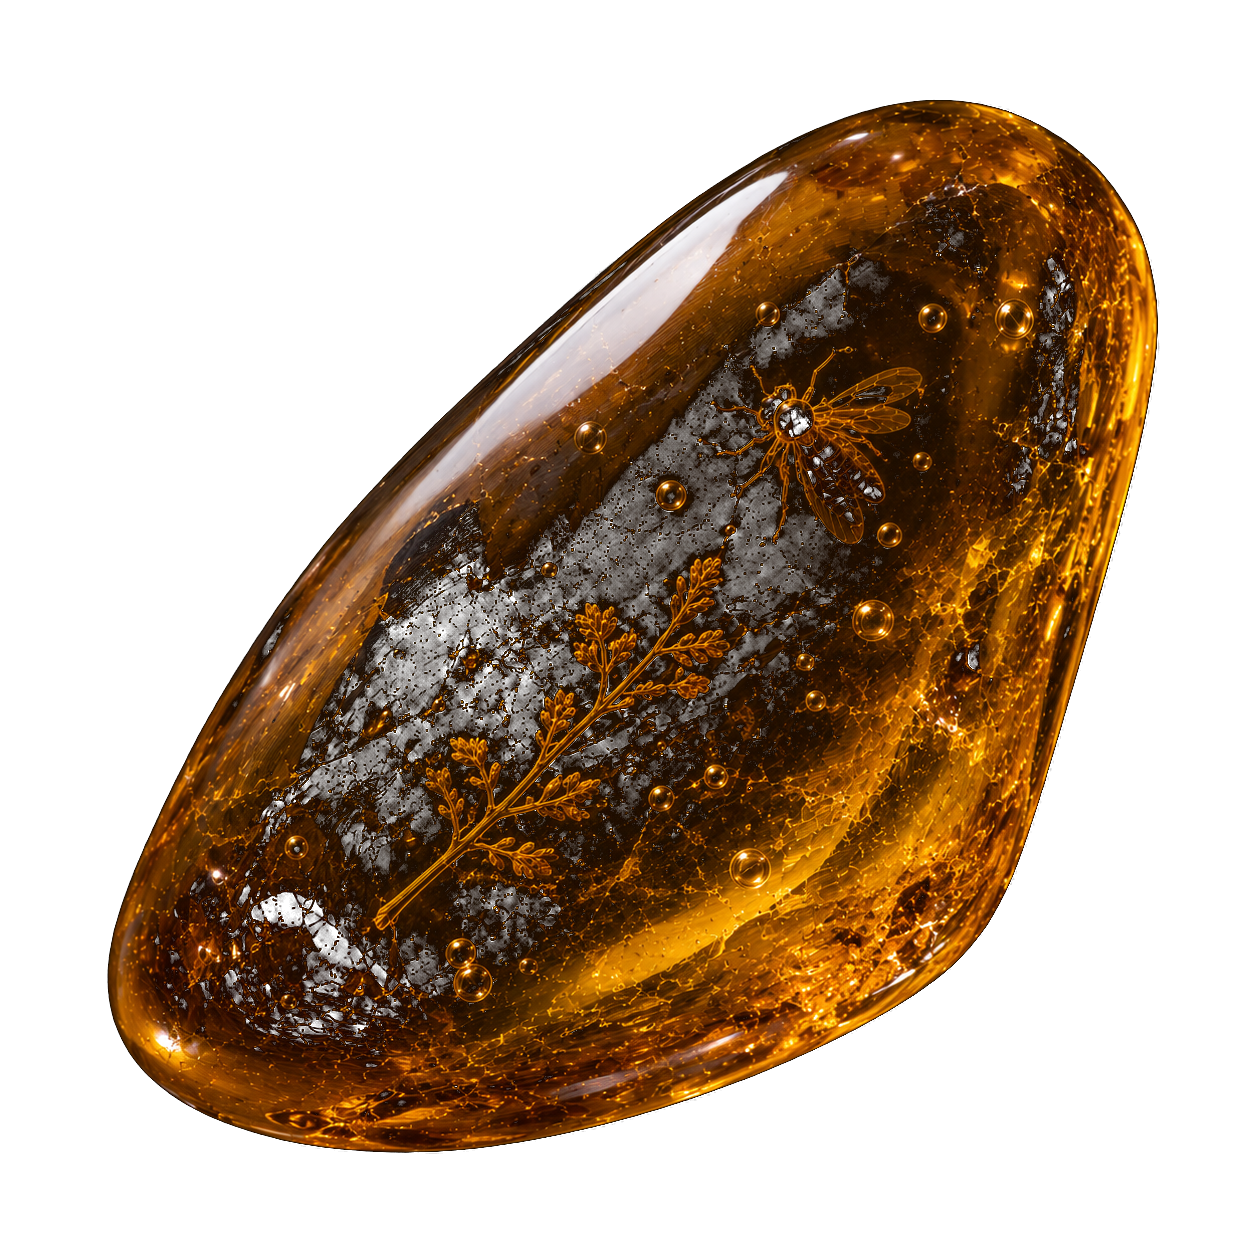
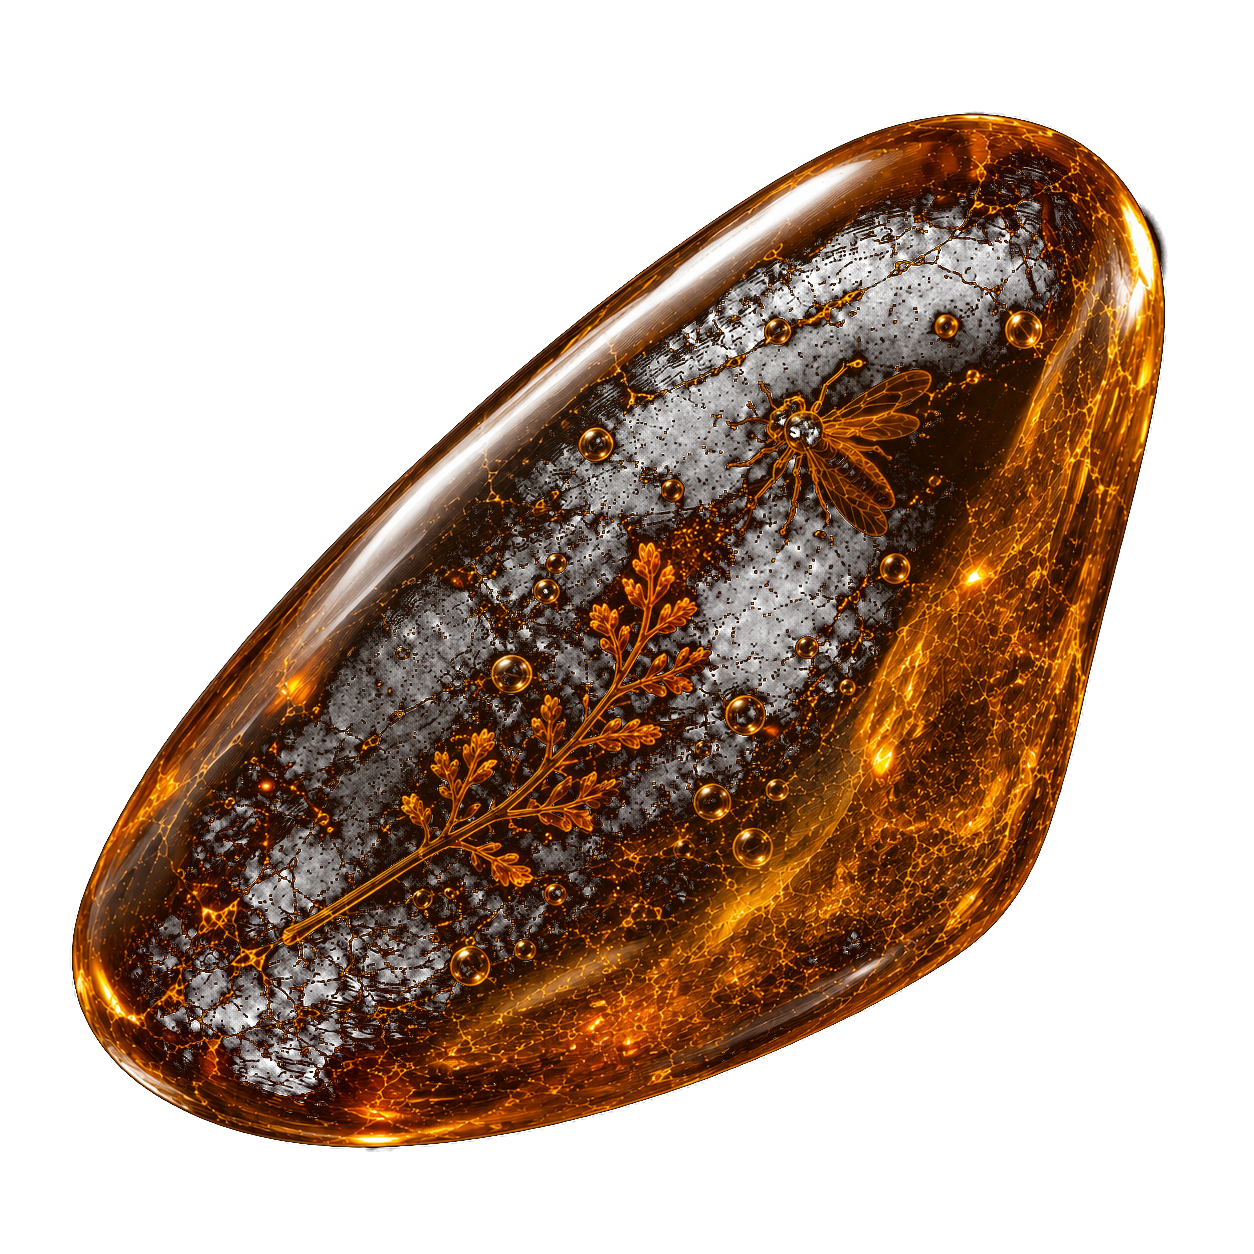
feat: swap to better-aligned amber photo + sync breathing across both layers

diff --git a/src/app/page.tsx b/src/app/page.tsx
@@ -96,69 +96,11 @@ export default function Home() {
           </motion.p>
 
           <div className="relative">
-            {/* Hover-reveal hotspot — cursor inside the gem area summons a small
-                translucent crystal-clear amber lens, transforming the etching into
-                real material under the cursor. */}
-            <div
-              className="absolute left-1/2 top-1/2"
-              style={{
-                width: "min(80%, 640px)",
-                aspectRatio: "1 / 1",
-                marginLeft: "calc(min(80%, 640px) / -2)",
-                marginTop: "calc(min(80%, 640px) / -2)",
-                zIndex: 2,
-                pointerEvents: "auto",
-              }}
-              onPointerMove={(e) => {
-                const rect = e.currentTarget.getBoundingClientRect();
-                setReveal({
-                  x: e.clientX - rect.left,
-                  y: e.clientY - rect.top,
-                  active: true,
-                });
-              }}
-              onPointerLeave={() => setReveal((r) => ({ ...r, active: false }))}
-            >
-              {/* Reveal layer: masked to a small circle around the cursor.
-                  The photo gets a static transform to compensate for the source-
-                  image misalignment between the etching and the photo (their gem
-                  shapes were drawn at slightly different angles + offsets). */}
-              <div
-                className="absolute inset-0"
-                style={{
-                  WebkitMaskImage: `radial-gradient(circle 130px at ${reveal.x}px ${reveal.y}px, rgba(0,0,0,1) 0%, rgba(0,0,0,1) 36%, rgba(0,0,0,0) 100%)`,
-                  maskImage: `radial-gradient(circle 130px at ${reveal.x}px ${reveal.y}px, rgba(0,0,0,1) 0%, rgba(0,0,0,1) 36%, rgba(0,0,0,0) 100%)`,
-                  opacity: reveal.active ? 1 : 0,
-                  transition: "opacity 0.45s ease",
-                }}
-              >
-                <div
-                  className="absolute inset-0"
-                  style={{
-                    // measured offset to align photo's gem onto etching's gem:
-                    // photo is rotated ~6.65° less than the etching, and shifted
-                    // a few pixels — apply the inverse here.
-                    transform:
-                      "translate(-0.5%, 2.1%) rotate(6.65deg) scale(1.005)",
-                    transformOrigin: "center",
-                  }}
-                >
-                  <Image
-                    src="/amber-real.png"
-                    alt=""
-                    fill
-                    sizes="(max-width: 768px) 80vw, 640px"
-                    style={{ objectFit: "contain" }}
-                  />
-                </div>
-              </div>
-            </div>
-
-            {/* Amber resin specimen — STATIC now (was breathing, but that broke
-                alignment with the photo lens). Just a graceful fade-in on mount. */}
+            {/* Single breathing wrapper containing BOTH the etching and the
+                hover-reveal photo lens. Because they share the same animated
+                transform, they stay in perfect lockstep — no drift. */}
             <motion.div
-              aria-hidden
-              className="pointer-events-none absolute left-1/2 top-1/2"
+              className="absolute left-1/2 top-1/2"
               style={{
                 width: "min(80%, 640px)",
                 aspectRatio: "1 / 1",
@@ -167,9 +109,30 @@ export default function Home() {
                 zIndex: 0,
               }}
               initial={{ opacity: 0, scale: 0.97 }}
-              animate={{ opacity: 0.92, scale: 1 }}
-              transition={{ duration: 1.4, delay: 0.2, ease: "easeOut" }}
+              animate={{
+                opacity: [0, 0.95, 0.88, 0.95],
+                scale: [0.97, 1, 1.012, 1],
+                rotate: [0, 0.5, -0.3, 0.5],
+              }}
+              transition={{
+                opacity: { duration: 1.4, delay: 0.2, ease: "easeOut" },
+                scale: {
+                  duration: 11,
+                  delay: 1.4,
+                  repeat: Infinity,
+                  repeatType: "reverse",
+                  ease: "easeInOut",
+                },
+                rotate: {
+                  duration: 22,
+                  delay: 1.4,
+                  repeat: Infinity,
+                  repeatType: "reverse",
+                  ease: "easeInOut",
+                },
+              }}
             >
+              {/* Etching layer (white linework, base) */}
               <Image
                 src="/amber-hero.png"
                 alt=""
@@ -180,8 +143,55 @@ export default function Home() {
                   objectFit: "contain",
                   filter:
                     "sepia(0.18) hue-rotate(-8deg) saturate(1.05) brightness(1.05)",
+                  pointerEvents: "none",
                 }}
               />
+
+              {/* Hover hotspot + reveal lens — sibling of etching, same bounds */}
+              <div
+                className="absolute inset-0"
+                style={{ zIndex: 2, pointerEvents: "auto" }}
+                onPointerMove={(e) => {
+                  const rect = e.currentTarget.getBoundingClientRect();
+                  setReveal({
+                    x: e.clientX - rect.left,
+                    y: e.clientY - rect.top,
+                    active: true,
+                  });
+                }}
+                onPointerLeave={() =>
+                  setReveal((r) => ({ ...r, active: false }))
+                }
+              >
+                <div
+                  className="absolute inset-0"
+                  style={{
+                    WebkitMaskImage: `radial-gradient(circle 130px at ${reveal.x}px ${reveal.y}px, rgba(0,0,0,1) 0%, rgba(0,0,0,1) 36%, rgba(0,0,0,0) 100%)`,
+                    maskImage: `radial-gradient(circle 130px at ${reveal.x}px ${reveal.y}px, rgba(0,0,0,1) 0%, rgba(0,0,0,1) 36%, rgba(0,0,0,0) 100%)`,
+                    opacity: reveal.active ? 1 : 0,
+                    transition: "opacity 0.45s ease",
+                  }}
+                >
+                  <div
+                    className="absolute inset-0"
+                    style={{
+                      // measured static offset to align new photo onto etching:
+                      // 2.20° rotation, ~1.3% Y shift, ~0.99x scale
+                      transform:
+                        "translate(-0.05%, 1.34%) rotate(2.20deg) scale(1.009)",
+                      transformOrigin: "center",
+                    }}
+                  >
+                    <Image
+                      src="/amber-real.png"
+                      alt=""
+                      fill
+                      sizes="(max-width: 768px) 80vw, 640px"
+                      style={{ objectFit: "contain" }}
+                    />
+                  </div>
+                </div>
+              </div>
             </motion.div>
 
             {/* warm inner glow under the gem */}
